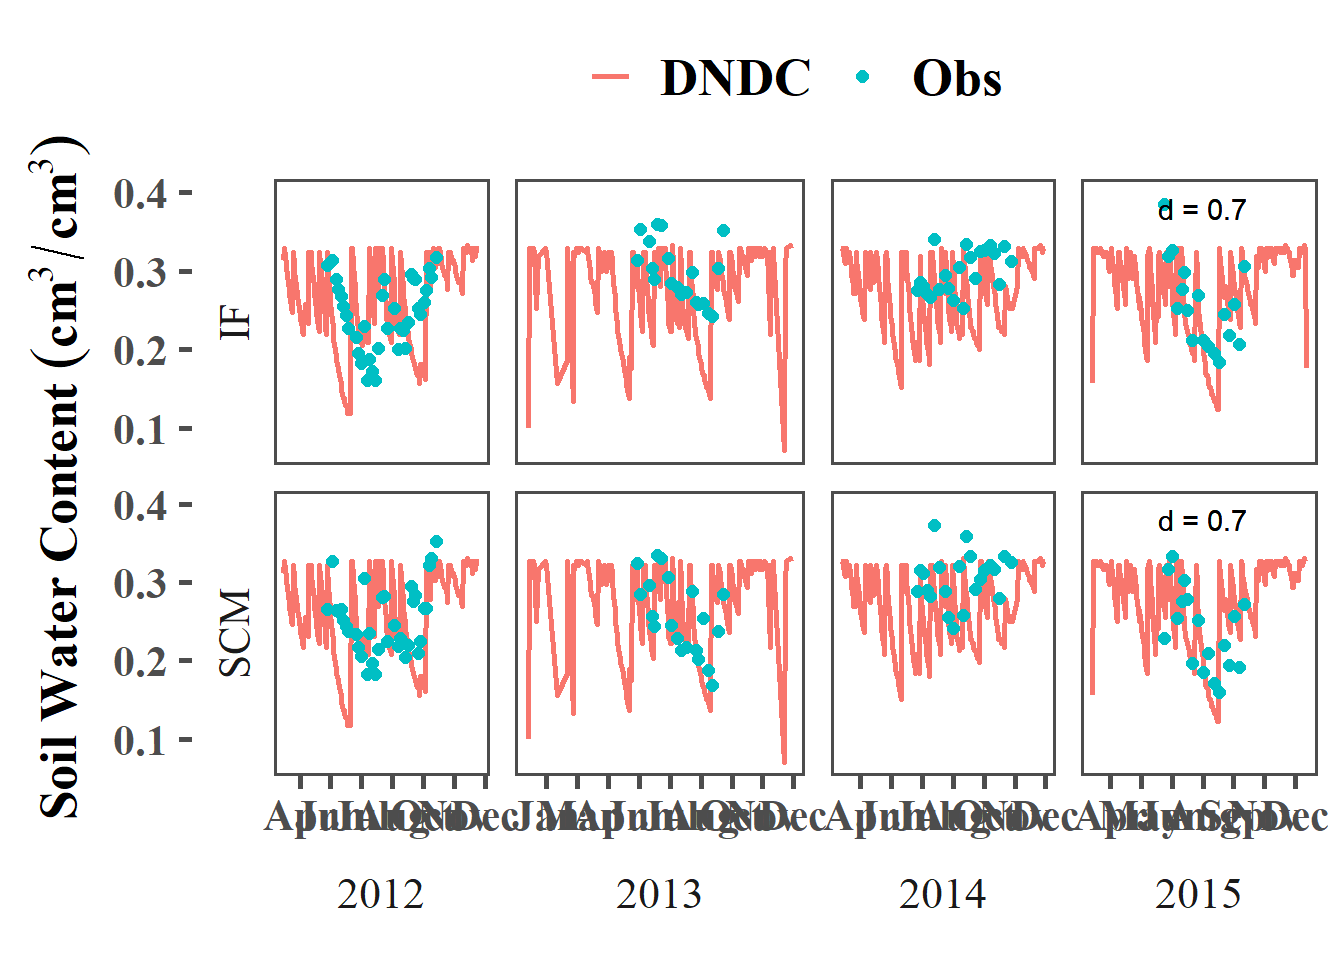
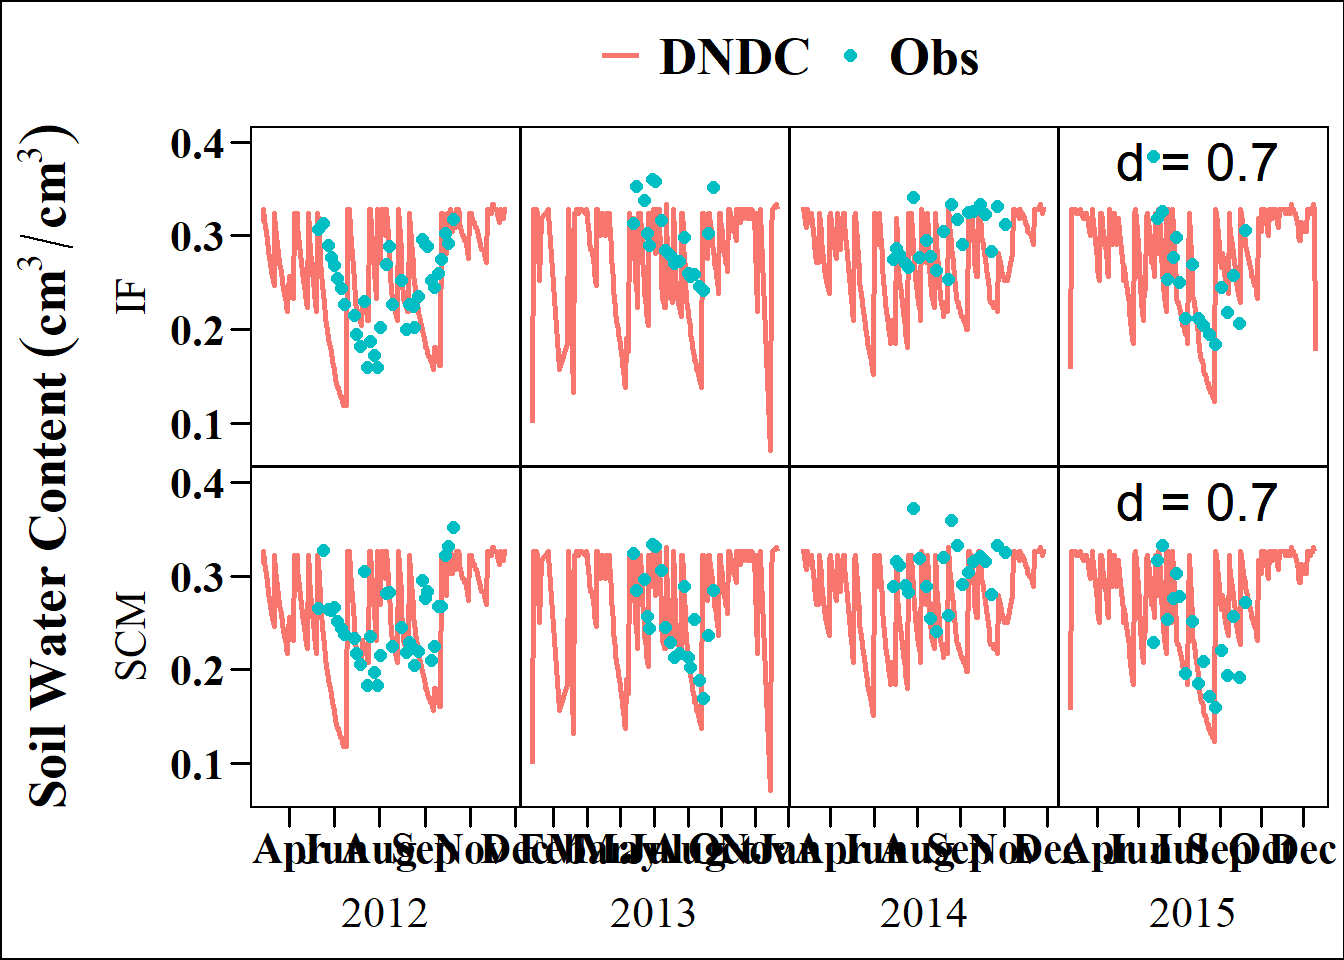
Second night commit

diff --git a/Harrow-water-content.html b/Harrow-water-content.html
@@ -129,29 +129,38 @@ The following object is masked from 'package:dplyr':
 <span id="cb5-4"><a href="#cb5-4" aria-hidden="true" tabindex="-1"></a>  <span class="fu">mutate</span>(<span class="at">Year =</span> <span class="fu">year</span>(date),</span>
 <span id="cb5-5"><a href="#cb5-5" aria-hidden="true" tabindex="-1"></a>         <span class="at">date =</span> <span class="fu">as.Date</span>(date))</span>
 <span id="cb5-6"><a href="#cb5-6" aria-hidden="true" tabindex="-1"></a></span>
-<span id="cb5-7"><a href="#cb5-7" aria-hidden="true" tabindex="-1"></a>SWCA <span class="ot">&lt;-</span> SWC <span class="sc">|&gt;</span> <span class="fu">filter</span>(date <span class="sc">==</span> <span class="st">'2015-08-11'</span>) <span class="sc">|&gt;</span> <span class="fu">mutate</span>(<span class="at">y =</span> <span class="fl">0.38</span>)</span></code><button title="Copy to Clipboard" class="code-copy-button"><i class="bi"></i></button></pre></div>
+<span id="cb5-7"><a href="#cb5-7" aria-hidden="true" tabindex="-1"></a>SCM <span class="ot">&lt;-</span> SWC <span class="sc">|&gt;</span> <span class="fu">filter</span>(component <span class="sc">==</span> <span class="st">"SCM"</span>)<span class="sc">|&gt;</span> </span>
+<span id="cb5-8"><a href="#cb5-8" aria-hidden="true" tabindex="-1"></a>  <span class="fu">mutate</span>(<span class="at">Year =</span> <span class="fu">year</span>(date),</span>
+<span id="cb5-9"><a href="#cb5-9" aria-hidden="true" tabindex="-1"></a>         <span class="at">date =</span> <span class="fu">as.Date</span>(date))</span>
+<span id="cb5-10"><a href="#cb5-10" aria-hidden="true" tabindex="-1"></a>IF <span class="ot">&lt;-</span> SWC <span class="sc">|&gt;</span> <span class="fu">filter</span>(component <span class="sc">!=</span> <span class="st">"SCM"</span>)<span class="sc">|&gt;</span> </span>
+<span id="cb5-11"><a href="#cb5-11" aria-hidden="true" tabindex="-1"></a>  <span class="fu">mutate</span>(<span class="at">Year =</span> <span class="fu">year</span>(date),</span>
+<span id="cb5-12"><a href="#cb5-12" aria-hidden="true" tabindex="-1"></a>         <span class="at">date =</span> <span class="fu">as.Date</span>(date))</span>
+<span id="cb5-13"><a href="#cb5-13" aria-hidden="true" tabindex="-1"></a></span>
+<span id="cb5-14"><a href="#cb5-14" aria-hidden="true" tabindex="-1"></a></span>
+<span id="cb5-15"><a href="#cb5-15" aria-hidden="true" tabindex="-1"></a>SWCA <span class="ot">&lt;-</span> SWC <span class="sc">|&gt;</span> <span class="fu">filter</span>(date <span class="sc">==</span> <span class="st">'2015-08-11'</span>) <span class="sc">|&gt;</span> <span class="fu">mutate</span>(<span class="at">y =</span> <span class="fl">0.38</span>)</span></code><button title="Copy to Clipboard" class="code-copy-button"><i class="bi"></i></button></pre></div>
 </div>
 <div class="cell">
 <div class="sourceCode cell-code" id="cb6"><pre class="sourceCode r code-with-copy"><code class="sourceCode r"><span id="cb6-1"><a href="#cb6-1" aria-hidden="true" tabindex="-1"></a>y_grob <span class="ot">=</span> <span class="fu">expression</span>(<span class="fu">bold</span>(Soil<span class="sc">~</span>Water<span class="sc">~</span>Content<span class="sc">~</span>(cm<span class="sc">^</span>{<span class="dv">3</span>}<span class="sc">/</span>cm<span class="sc">^</span>{<span class="dv">3</span>})))</span>
 <span id="cb6-2"><a href="#cb6-2" aria-hidden="true" tabindex="-1"></a></span>
 <span id="cb6-3"><a href="#cb6-3" aria-hidden="true" tabindex="-1"></a><span class="fu">ggplot</span>()<span class="sc">+</span></span>
-<span id="cb6-4"><a href="#cb6-4" aria-hidden="true" tabindex="-1"></a>  <span class="fu">geom_line</span>(<span class="at">data =</span> SWC <span class="sc">|&gt;</span> <span class="fu">filter</span>(Model <span class="sc">==</span> <span class="st">"dndc"</span>), </span>
+<span id="cb6-4"><a href="#cb6-4" aria-hidden="true" tabindex="-1"></a>  <span class="fu">geom_line</span>(<span class="at">data =</span> SWC<span class="sc">|&gt;</span> <span class="fu">filter</span>(Model <span class="sc">==</span> <span class="st">"dndc"</span>), </span>
 <span id="cb6-5"><a href="#cb6-5" aria-hidden="true" tabindex="-1"></a>            <span class="at">mapping =</span> <span class="fu">aes</span>(date, Water, <span class="at">col =</span> <span class="st">"DNDC"</span>), <span class="at">linewidth =</span> <span class="dv">1</span>) <span class="sc">+</span></span>
 <span id="cb6-6"><a href="#cb6-6" aria-hidden="true" tabindex="-1"></a>  <span class="fu">geom_point</span>(<span class="at">data =</span> SWC <span class="sc">|&gt;</span> <span class="fu">filter</span>(Model <span class="sc">==</span> <span class="st">"obs"</span>),</span>
 <span id="cb6-7"><a href="#cb6-7" aria-hidden="true" tabindex="-1"></a>             <span class="at">mapping =</span> <span class="fu">aes</span>(date, Water, <span class="at">col =</span> <span class="st">"Obs"</span>), <span class="at">size =</span> <span class="dv">2</span>) <span class="sc">+</span></span>
 <span id="cb6-8"><a href="#cb6-8" aria-hidden="true" tabindex="-1"></a>  <span class="fu">geom_text</span>(<span class="at">data=</span>SWCA, <span class="fu">aes</span>(<span class="at">x=</span>date, <span class="at">y=</span> y, <span class="at">label=</span> <span class="st">"d = 0.7"</span>), </span>
-<span id="cb6-9"><a href="#cb6-9" aria-hidden="true" tabindex="-1"></a>            <span class="at">colour=</span><span class="st">"black"</span>) <span class="sc">+</span></span>
-<span id="cb6-10"><a href="#cb6-10" aria-hidden="true" tabindex="-1"></a>  <span class="fu">facet_grid</span>(component<span class="sc">~</span>Year, <span class="at">scales =</span> <span class="st">"free"</span>,<span class="at">switch =</span> <span class="st">"both"</span>, <span class="at">space =</span> <span class="st">"free"</span>) <span class="sc">+</span></span>
-<span id="cb6-11"><a href="#cb6-11" aria-hidden="true" tabindex="-1"></a>  <span class="fu">scale_x_date</span>(<span class="at">date_breaks =</span> <span class="st">"6 week"</span>, <span class="at">date_labels =</span> <span class="st">"%b"</span>)<span class="sc">+</span></span>
+<span id="cb6-9"><a href="#cb6-9" aria-hidden="true" tabindex="-1"></a>            <span class="at">colour=</span><span class="st">"black"</span>, <span class="at">size =</span> <span class="dv">7</span>) <span class="sc">+</span></span>
+<span id="cb6-10"><a href="#cb6-10" aria-hidden="true" tabindex="-1"></a>  <span class="fu">facet_grid</span>(component <span class="sc">~</span> Year, <span class="at">scales =</span> <span class="st">"free"</span>, <span class="at">switch  =</span> <span class="st">"both"</span>) <span class="sc">+</span></span>
+<span id="cb6-11"><a href="#cb6-11" aria-hidden="true" tabindex="-1"></a>  <span class="fu">scale_x_date</span>(<span class="at">date_breaks =</span> <span class="st">"7 week"</span>, <span class="at">date_labels =</span> <span class="st">"%b"</span>)<span class="sc">+</span></span>
 <span id="cb6-12"><a href="#cb6-12" aria-hidden="true" tabindex="-1"></a>  <span class="fu">scale_y_continuous</span>(<span class="at">limits =</span> <span class="fu">c</span>(<span class="fl">0.07</span>, <span class="fl">0.4</span>))<span class="sc">+</span></span>
-<span id="cb6-13"><a href="#cb6-13" aria-hidden="true" tabindex="-1"></a>  <span class="fu">theme_few</span>(<span class="at">base_family =</span> <span class="st">"times"</span>, <span class="at">base_size =</span> <span class="dv">20</span>) <span class="sc">+</span></span>
+<span id="cb6-13"><a href="#cb6-13" aria-hidden="true" tabindex="-1"></a>  <span class="fu">theme_base</span>(<span class="at">base_family =</span> <span class="st">"times"</span>, <span class="at">base_size =</span> <span class="dv">20</span>) <span class="sc">+</span></span>
 <span id="cb6-14"><a href="#cb6-14" aria-hidden="true" tabindex="-1"></a>  <span class="fu">theme</span>(<span class="at">legend.text =</span> <span class="fu">element_text</span>(<span class="at">face =</span> <span class="st">"bold"</span>, <span class="at">size =</span> <span class="dv">20</span>),</span>
 <span id="cb6-15"><a href="#cb6-15" aria-hidden="true" tabindex="-1"></a>        <span class="at">legend.position =</span> <span class="st">"top"</span>,</span>
 <span id="cb6-16"><a href="#cb6-16" aria-hidden="true" tabindex="-1"></a>        <span class="at">axis.text =</span> <span class="fu">element_text</span>(<span class="at">face =</span> <span class="st">"bold"</span>),</span>
 <span id="cb6-17"><a href="#cb6-17" aria-hidden="true" tabindex="-1"></a>        <span class="at">axis.title =</span> <span class="fu">element_text</span>(<span class="at">face =</span> <span class="st">"bold"</span>, <span class="at">size =</span> <span class="dv">20</span>),</span>
-<span id="cb6-18"><a href="#cb6-18" aria-hidden="true" tabindex="-1"></a>        <span class="at">strip.placement.x =</span> <span class="st">'outside'</span>,</span>
-<span id="cb6-19"><a href="#cb6-19" aria-hidden="true" tabindex="-1"></a>        <span class="at">strip.background.x =</span> <span class="fu">element_blank</span>()) <span class="sc">+</span></span>
-<span id="cb6-20"><a href="#cb6-20" aria-hidden="true" tabindex="-1"></a>  <span class="fu">labs</span>(<span class="at">color =</span> <span class="cn">NULL</span>, <span class="at">y =</span> y_grob, <span class="at">x =</span> <span class="cn">NULL</span>)</span></code><button title="Copy to Clipboard" class="code-copy-button"><i class="bi"></i></button></pre></div>
+<span id="cb6-18"><a href="#cb6-18" aria-hidden="true" tabindex="-1"></a>        <span class="at">strip.placement =</span> <span class="st">'outside'</span>,</span>
+<span id="cb6-19"><a href="#cb6-19" aria-hidden="true" tabindex="-1"></a>        <span class="at">strip.background.x =</span> <span class="fu">element_blank</span>(),</span>
+<span id="cb6-20"><a href="#cb6-20" aria-hidden="true" tabindex="-1"></a>        <span class="at">panel.spacing =</span> <span class="fu">unit</span>(<span class="dv">0</span>,<span class="st">'lines'</span>)) <span class="sc">+</span></span>
+<span id="cb6-21"><a href="#cb6-21" aria-hidden="true" tabindex="-1"></a>  <span class="fu">labs</span>(<span class="at">color =</span> <span class="cn">NULL</span>, <span class="at">y =</span> y_grob, <span class="at">x =</span> <span class="cn">NULL</span>)</span></code><button title="Copy to Clipboard" class="code-copy-button"><i class="bi"></i></button></pre></div>
 <div class="cell-output-display">
 <div>
 <figure class="figure">
